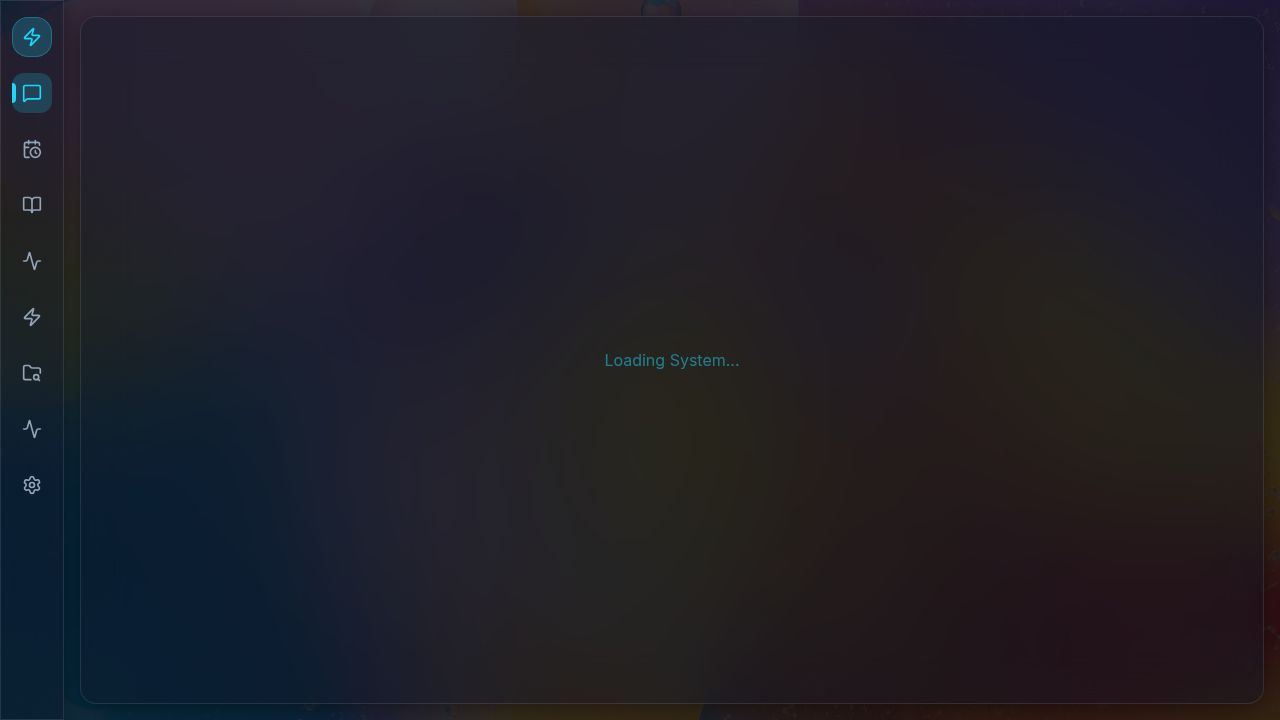
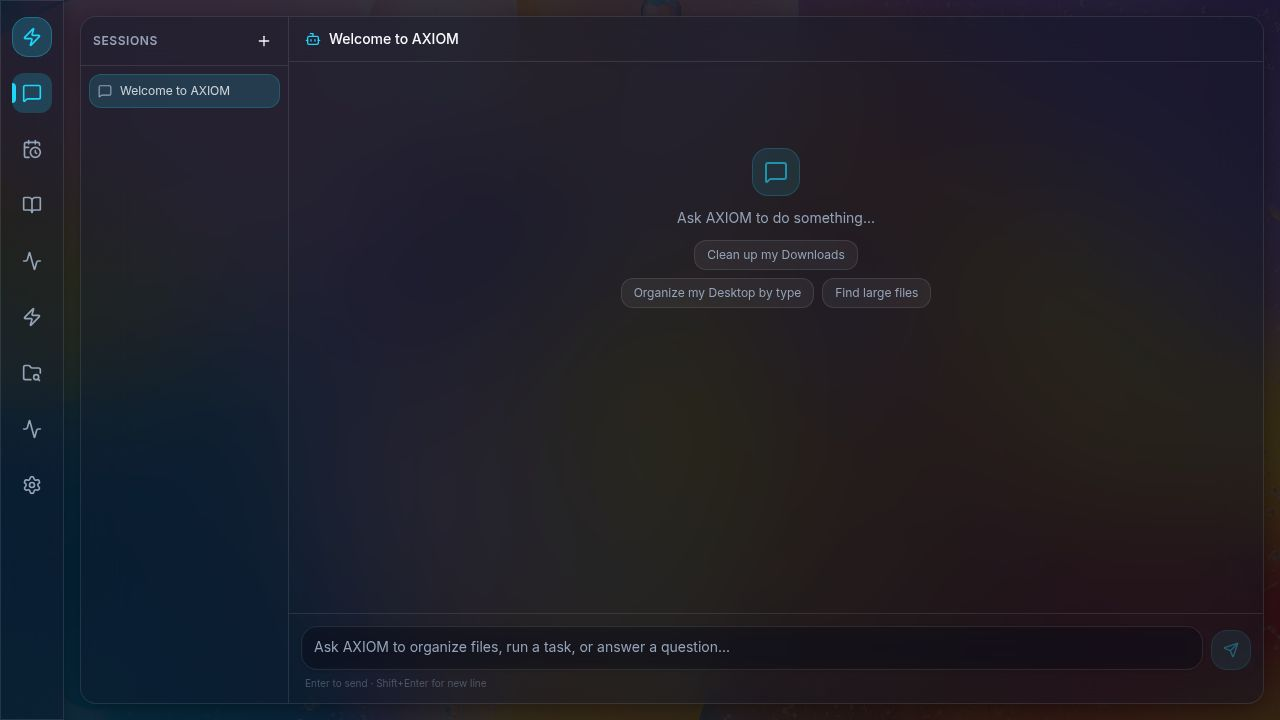
Fix third code review: CORS restriction, pull-progress UI, Ollama fallback
Issues addressed:
1. CORS: restrict to localhost/127.0.0.1/.replit.dev/.repl.co/.replit.app origins
   - artifacts/api-server/src/app.ts: cors() → cors({ origin: allowlist fn })
2. Model pull progress in Settings UI
   - lib/api-client-react/src/generated/api.schemas.ts: add ModelPullProgress type
   - lib/api-client-react/src/generated/api.ts: import + add useGetModelPullStatus hook
   - lib/api-client-react rebuilt (tsc --build) with new hook
   - artifacts/desktop/src/pages/settings.tsx: activePulling state, 1.5s poll loop,
     animated progress bar + GB counter, auto-toast on complete/error, Enter key on input
3. Ollama unavailable fallback
   - settings.tsx: inline "Use Cloud" button in amber warning banner calls update({aiMode:'cloud'})

diff --git a/artifacts/desktop/src/pages/settings.tsx b/artifacts/desktop/src/pages/settings.tsx
@@ -1,4 +1,4 @@
-import { useState, useEffect } from "react";
+import { useState, useEffect, useCallback } from "react";
 import { motion } from "framer-motion";
 import { Settings as SettingsIcon, Cpu, Cloud, Keyboard, FolderOpen, Bell, Monitor, RefreshCw, Loader2, CheckCircle2, AlertTriangle, Trash2 } from "lucide-react";
 import { Button } from "@/components/ui/button";
@@ -18,6 +18,8 @@ import {
   useListAiModels, getListAiModelsQueryKey,
   usePullAiModel,
   useDeleteAiModel,
+  useGetModelPullStatus,
+  getGetModelPullStatusQueryKey,
 } from "@workspace/api-client-react";
 import type { AppSettings, AppSettingsUpdate } from "@workspace/api-client-react";
 import { useQueryClient } from "@tanstack/react-query";
@@ -57,6 +59,7 @@ export default function Settings() {
   const { toast } = useToast();
   const [, setLocation] = useLocation();
   const [pullModelName, setPullModelName] = useState("");
+  const [activePulling, setActivePulling] = useState<string | null>(null);
 
   const { data: settings, isLoading } = useGetSettings({ query: { queryKey: getGetSettingsQueryKey() } });
   const { data: aiStatus } = useGetAiStatus({
@@ -64,26 +67,56 @@ export default function Settings() {
   });
   const { data: models = [] } = useListAiModels({ query: { queryKey: getListAiModelsQueryKey() } });
 
+  const { data: pullStatus } = useGetModelPullStatus(activePulling ?? "", {
+    query: {
+      queryKey: getGetModelPullStatusQueryKey(activePulling ?? ""),
+      enabled: !!activePulling,
+      refetchInterval: (query) => {
+        const data = query.state.data;
+        if (!data) return 1500;
+        if (data.status === "pulling") return 1500;
+        return false;
+      },
+    },
+  });
+
+  useEffect(() => {
+    if (!pullStatus || !activePulling) return;
+    if (pullStatus.status === "complete") {
+      toast({ title: `Model "${activePulling}" ready`, description: "Model downloaded successfully" });
+      setActivePulling(null);
+      queryClient.invalidateQueries({ queryKey: getListAiModelsQueryKey() });
+    } else if (pullStatus.status === "error") {
+      toast({ title: `Pull failed`, description: pullStatus.error || "Unknown error", variant: "destructive" });
+      setActivePulling(null);
+    }
+  }, [pullStatus, activePulling, toast, queryClient]);
+
   const updateSettings = useUpdateSettings();
   const pullModel = usePullAiModel();
   const deleteModel = useDeleteAiModel();
 
-  const update = (patch: AppSettingsUpdate) => {
+  const update = useCallback((patch: AppSettingsUpdate) => {
     updateSettings.mutate({ data: patch }, {
       onSuccess: () => {
         queryClient.invalidateQueries({ queryKey: getGetSettingsQueryKey() });
       },
       onError: () => toast({ title: "Settings update failed", variant: "destructive" }),
     });
-  };
+  }, [updateSettings, queryClient, toast]);
 
   const handlePullModel = () => {
     if (!pullModelName.trim()) return;
-    pullModel.mutate({ data: { name: pullModelName.trim() } }, {
+    const name = pullModelName.trim();
+    pullModel.mutate({ data: { name } }, {
       onSuccess: () => {
-        toast({ title: `Pulling ${pullModelName}...`, description: "This may take a few minutes" });
+        toast({ title: `Pulling ${name}…`, description: "Downloading in background — progress shown below" });
         setPullModelName("");
-        setTimeout(() => queryClient.invalidateQueries({ queryKey: getListAiModelsQueryKey() }), 3000);
+        setActivePulling(name);
+      },
+      onError: (e: unknown) => {
+        const msg = e instanceof Error ? e.message : "Check that Ollama is running";
+        toast({ title: "Pull failed", description: msg, variant: "destructive" });
       },
     });
   };
@@ -174,11 +207,23 @@ export default function Settings() {
                 {aiStatus?.ollamaAvailable
                   ? <CheckCircle2 className="w-3.5 h-3.5 text-green-400" />
                   : <AlertTriangle className="w-3.5 h-3.5 text-amber-400" />}
-                <span className={aiStatus?.ollamaAvailable ? "text-green-300" : "text-amber-300"}>
+                <span className={cn("flex-1", aiStatus?.ollamaAvailable ? "text-green-300" : "text-amber-300")}>
                   {aiStatus?.ollamaAvailable
                     ? `Ollama connected · v${aiStatus.ollamaVersion || "unknown"}`
                     : "Ollama not detected — install from ollama.ai and run `ollama serve`"}
                 </span>
+                {!aiStatus?.ollamaAvailable && (
+                  <Button
+                    size="sm"
+                    variant="ghost"
+                    className="h-6 text-[10px] px-2 border border-amber-500/30 text-amber-300 hover:bg-amber-500/10 shrink-0"
+                    onClick={() => update({ aiMode: "cloud" })}
+                    data-testid="button-fallback-to-cloud"
+                  >
+                    <Cloud className="w-2.5 h-2.5 mr-1" />
+                    Use Cloud
+                  </Button>
+                )}
               </div>
             </div>
           )}
@@ -235,10 +280,34 @@ export default function Settings() {
                     ))}
                   </div>
                 )}
+                {/* Active pull progress */}
+                {activePulling && pullStatus && (
+                  <div className="rounded-lg border border-primary/20 bg-primary/5 p-2.5 space-y-1.5">
+                    <div className="flex items-center justify-between text-[11px]">
+                      <span className="text-primary font-medium flex items-center gap-1">
+                        <Loader2 className="w-2.5 h-2.5 animate-spin" />
+                        Pulling {activePulling}…
+                      </span>
+                      <span className="text-muted-foreground">{pullStatus.progress ?? 0}%</span>
+                    </div>
+                    <div className="h-1 rounded-full bg-white/10 overflow-hidden">
+                      <div
+                        className="h-full rounded-full bg-primary transition-all duration-500"
+                        style={{ width: `${pullStatus.progress ?? 0}%` }}
+                      />
+                    </div>
+                    {pullStatus.total != null && pullStatus.total > 0 && (
+                      <p className="text-[10px] text-muted-foreground/60">
+                        {((pullStatus.completed ?? 0) / 1e9).toFixed(1)} / {(pullStatus.total / 1e9).toFixed(1)} GB
+                      </p>
+                    )}
+                  </div>
+                )}
                 <div className="flex gap-2 mt-2">
                   <Input
                     value={pullModelName}
                     onChange={e => setPullModelName(e.target.value)}
+                    onKeyDown={e => e.key === "Enter" && handlePullModel()}
                     placeholder="llama3, mistral, phi3..."
                     className="glass-input h-7 text-xs flex-1"
                     data-testid="input-pull-model"
@@ -248,7 +317,7 @@ export default function Settings() {
                     variant="ghost"
                     className="h-7 text-xs border border-white/10"
                     onClick={handlePullModel}
-                    disabled={!pullModelName.trim() || pullModel.isPending}
+                    disabled={!pullModelName.trim() || pullModel.isPending || !!activePulling}
                     data-testid="button-pull-model"
                   >
                     {pullModel.isPending ? <Loader2 className="w-3 h-3 animate-spin" /> : "Pull"}

diff --git a/artifacts/api-server/src/lib/file-executor.ts b/artifacts/api-server/src/lib/file-executor.ts
@@ -115,6 +115,7 @@ export async function executeFileOperation(params: ExecuteParams): Promise<Execu
   let affected = files.filter(f => f.type === "file");
   const details: string[] = [];
   const undoFiles: Array<{ tempPath: string; originalPath: string }> = [];
+  const undoMoves: Array<{ from: string; to: string }> = [];
   let processed = 0;
 
   if (params.operation === "delete") {
@@ -133,8 +134,10 @@ export async function executeFileOperation(params: ExecuteParams): Promise<Execu
       const folder = f.extension ? (TYPE_MAP[f.extension] || "Other") : "Other";
       const destDir = path.join(params.path, folder);
       await fs.mkdir(destDir, { recursive: true });
+      const destPath = path.join(destDir, f.name);
       try {
-        await fs.rename(f.path, path.join(destDir, f.name));
+        await fs.rename(f.path, destPath);
+        undoMoves.push({ from: f.path, to: destPath });
         details.push(`Moved ${f.name} → ${folder}/`);
         processed++;
       } catch {}
@@ -142,8 +145,10 @@ export async function executeFileOperation(params: ExecuteParams): Promise<Execu
   } else if (params.operation === "move" && params.destination) {
     await fs.mkdir(params.destination, { recursive: true });
     for (const f of affected) {
+      const destPath = path.join(params.destination, f.name);
       try {
-        await fs.rename(f.path, path.join(params.destination, f.name));
+        await fs.rename(f.path, destPath);
+        undoMoves.push({ from: f.path, to: destPath });
         details.push(`Moved: ${f.name}`);
         processed++;
       } catch {}
@@ -187,6 +192,7 @@ export async function executeFileOperation(params: ExecuteParams): Promise<Execu
         const destPath = path.join(path.dirname(f.path), newName);
         try {
           await fs.rename(f.path, destPath);
+          undoMoves.push({ from: f.path, to: destPath });
           details.push(`Renamed: ${f.name} → ${newName}`);
           processed++;
         } catch {}
@@ -195,7 +201,11 @@ export async function executeFileOperation(params: ExecuteParams): Promise<Execu
     }
   }
 
-  const undoKey = undoFiles.length > 0 ? JSON.stringify({ files: undoFiles }) : null;
+  const undoKey = undoFiles.length > 0
+    ? JSON.stringify({ files: undoFiles })
+    : undoMoves.length > 0
+      ? JSON.stringify({ moves: undoMoves })
+      : null;
 
   if (!params.skipActivityLog) {
     await db.insert(activityLogTable).values({
@@ -203,7 +213,7 @@ export async function executeFileOperation(params: ExecuteParams): Promise<Execu
       description: `${params.operation} on ${params.path}`,
       detail: details.slice(0, 5).join(", "),
       filesAffected: JSON.stringify(files.filter(f => f.type === "file").slice(0, processed).map(f => f.path)),
-      undoable: undoFiles.length > 0,
+      undoable: undoKey !== null,
       undoData: undoKey,
     });
   }

diff --git a/artifacts/api-server/src/app.ts b/artifacts/api-server/src/app.ts
@@ -25,7 +25,20 @@ app.use(
     },
   }),
 );
-app.use(cors());
+app.use(cors({
+  origin: (origin, callback) => {
+    if (!origin) return callback(null, true);
+    const allowed =
+      origin.startsWith("http://localhost") ||
+      origin.startsWith("http://127.0.0.1") ||
+      origin.includes(".replit.dev") ||
+      origin.includes(".repl.co") ||
+      origin.includes(".replit.app");
+    if (allowed) return callback(null, true);
+    callback(new Error("CORS: origin not permitted"));
+  },
+  credentials: true,
+}));
 app.use(express.json());
 app.use(express.urlencoded({ extended: true }));
 

diff --git a/artifacts/api-server/src/routes/activity.ts b/artifacts/api-server/src/routes/activity.ts
@@ -42,12 +42,24 @@ router.post("/activity/:id/undo", async (req, res) => {
   const filesRestored: string[] = [];
   if (entry.undoData) {
     try {
-      const undoInfo = JSON.parse(entry.undoData) as { files: Array<{ tempPath: string; originalPath: string }> };
+      const undoInfo = JSON.parse(entry.undoData) as {
+        files?: Array<{ tempPath: string; originalPath: string }>;
+        moves?: Array<{ from: string; to: string }>;
+      };
+      // Undo delete/dedup: move from temp dir back to original path
       for (const f of undoInfo.files || []) {
         try {
           await fs.mkdir(path.dirname(f.originalPath), { recursive: true });
           await fs.rename(f.tempPath, f.originalPath);
           filesRestored.push(f.originalPath);
+        } catch {}
+      }
+      // Undo move/organize/rename: reverse each source→dest mapping
+      for (const m of (undoInfo.moves || []).reverse()) {
+        try {
+          await fs.mkdir(path.dirname(m.from), { recursive: true });
+          await fs.rename(m.to, m.from);
+          filesRestored.push(m.from);
         } catch {}
       }
     } catch {}